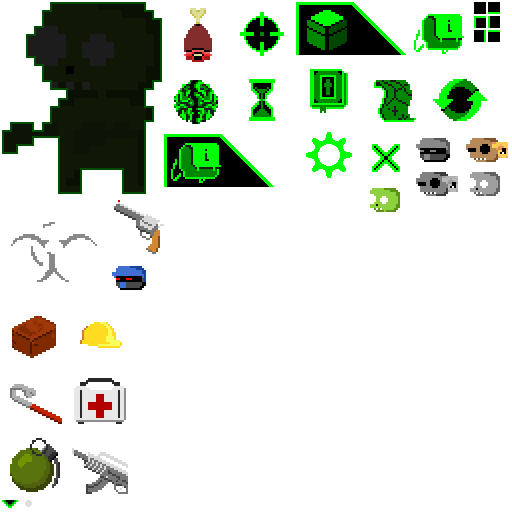
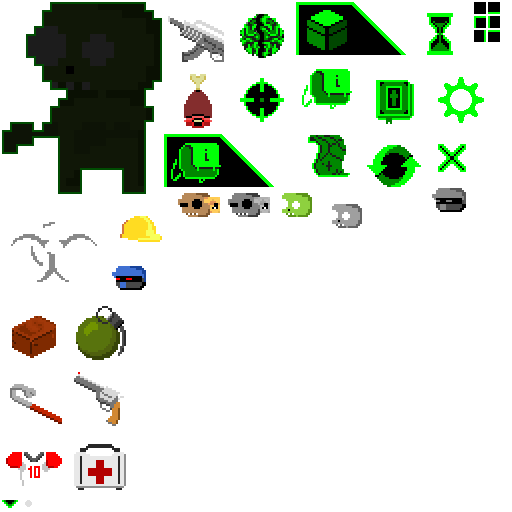
Football Chest Armor

diff --git a/server/items/Item.cpp b/server/items/Item.cpp
@@ -477,6 +477,16 @@ Item* Item::create(Type type, unsigned int id)
             };
 
             break;
+
+        case Type::FootballPads:
+
+            i = new Item();
+            i->schema.CategoryBase = ItemCategory::Base::BaseArmor;
+            i->schema.CategoryArmor = ItemCategory::Armor::ArmorChest;
+            i->schema.weight = 5;
+            i->schema.armorEffectiveness = .8f;
+
+            break;
     }
 
     i->schema.id = id;
@@ -515,6 +525,9 @@ std::string Item::getTitle(Type type)
 
         case Type::Grenade:
             return "Grenade";
+
+        case Type::FootballPads:
+            return "Football Pads";
     }
 }
 
@@ -550,6 +563,9 @@ std::string Item::getDescription(Type type)
 
         case Type::Grenade:
             return "Explodes in a radius";
+
+        case Type::FootballPads:
+            return "American that is...";
     }
 }
 
@@ -575,6 +591,9 @@ std::string Item::getSpriteName(Type type)
 
         case Type::Crowbar:
             return "Crowbar";
+
+        case Type::FootballPads:
+            return "FootballPads";
     }
 }
 
@@ -606,6 +625,9 @@ std::string Item::getIconName(Type type)
 
         case Type::Grenade:
             return "Grenade";
+
+        case Type::FootballPads:
+            return "FootballPads";
     }
 }
 

diff --git a/server/Player.cpp b/server/Player.cpp
@@ -93,7 +93,7 @@ void Player::setupPlayerCharacter()
     character->addItemToInventory(Item::create(Item::Type::Grenade, level->server->getNextItemId()));
     character->addItemToInventory(Item::create(Item::Type::Grenade, level->server->getNextItemId()));
     character->addItemToInventory(Item::create(Item::Type::HardHat, level->server->getNextItemId()));
-    character->addItemToInventory(Item::create(Item::Type::HardHat, level->server->getNextItemId()));
+    character->addItemToInventory(Item::create(Item::Type::FootballPads, level->server->getNextItemId()));
     
     character->equipFromInventory(Character::EquipmentSlot::WeaponPrimary, magnum->schema.id);
     character->equipFromInventory(Character::EquipmentSlot::WeaponSecondary, crowbar->schema.id);

diff --git a/server/items/Item.hpp b/server/items/Item.hpp
@@ -30,6 +30,7 @@ public:
         Medkit,
         Brick,
         Grenade,
+        FootballPads,
     };
 
     enum CommandType
